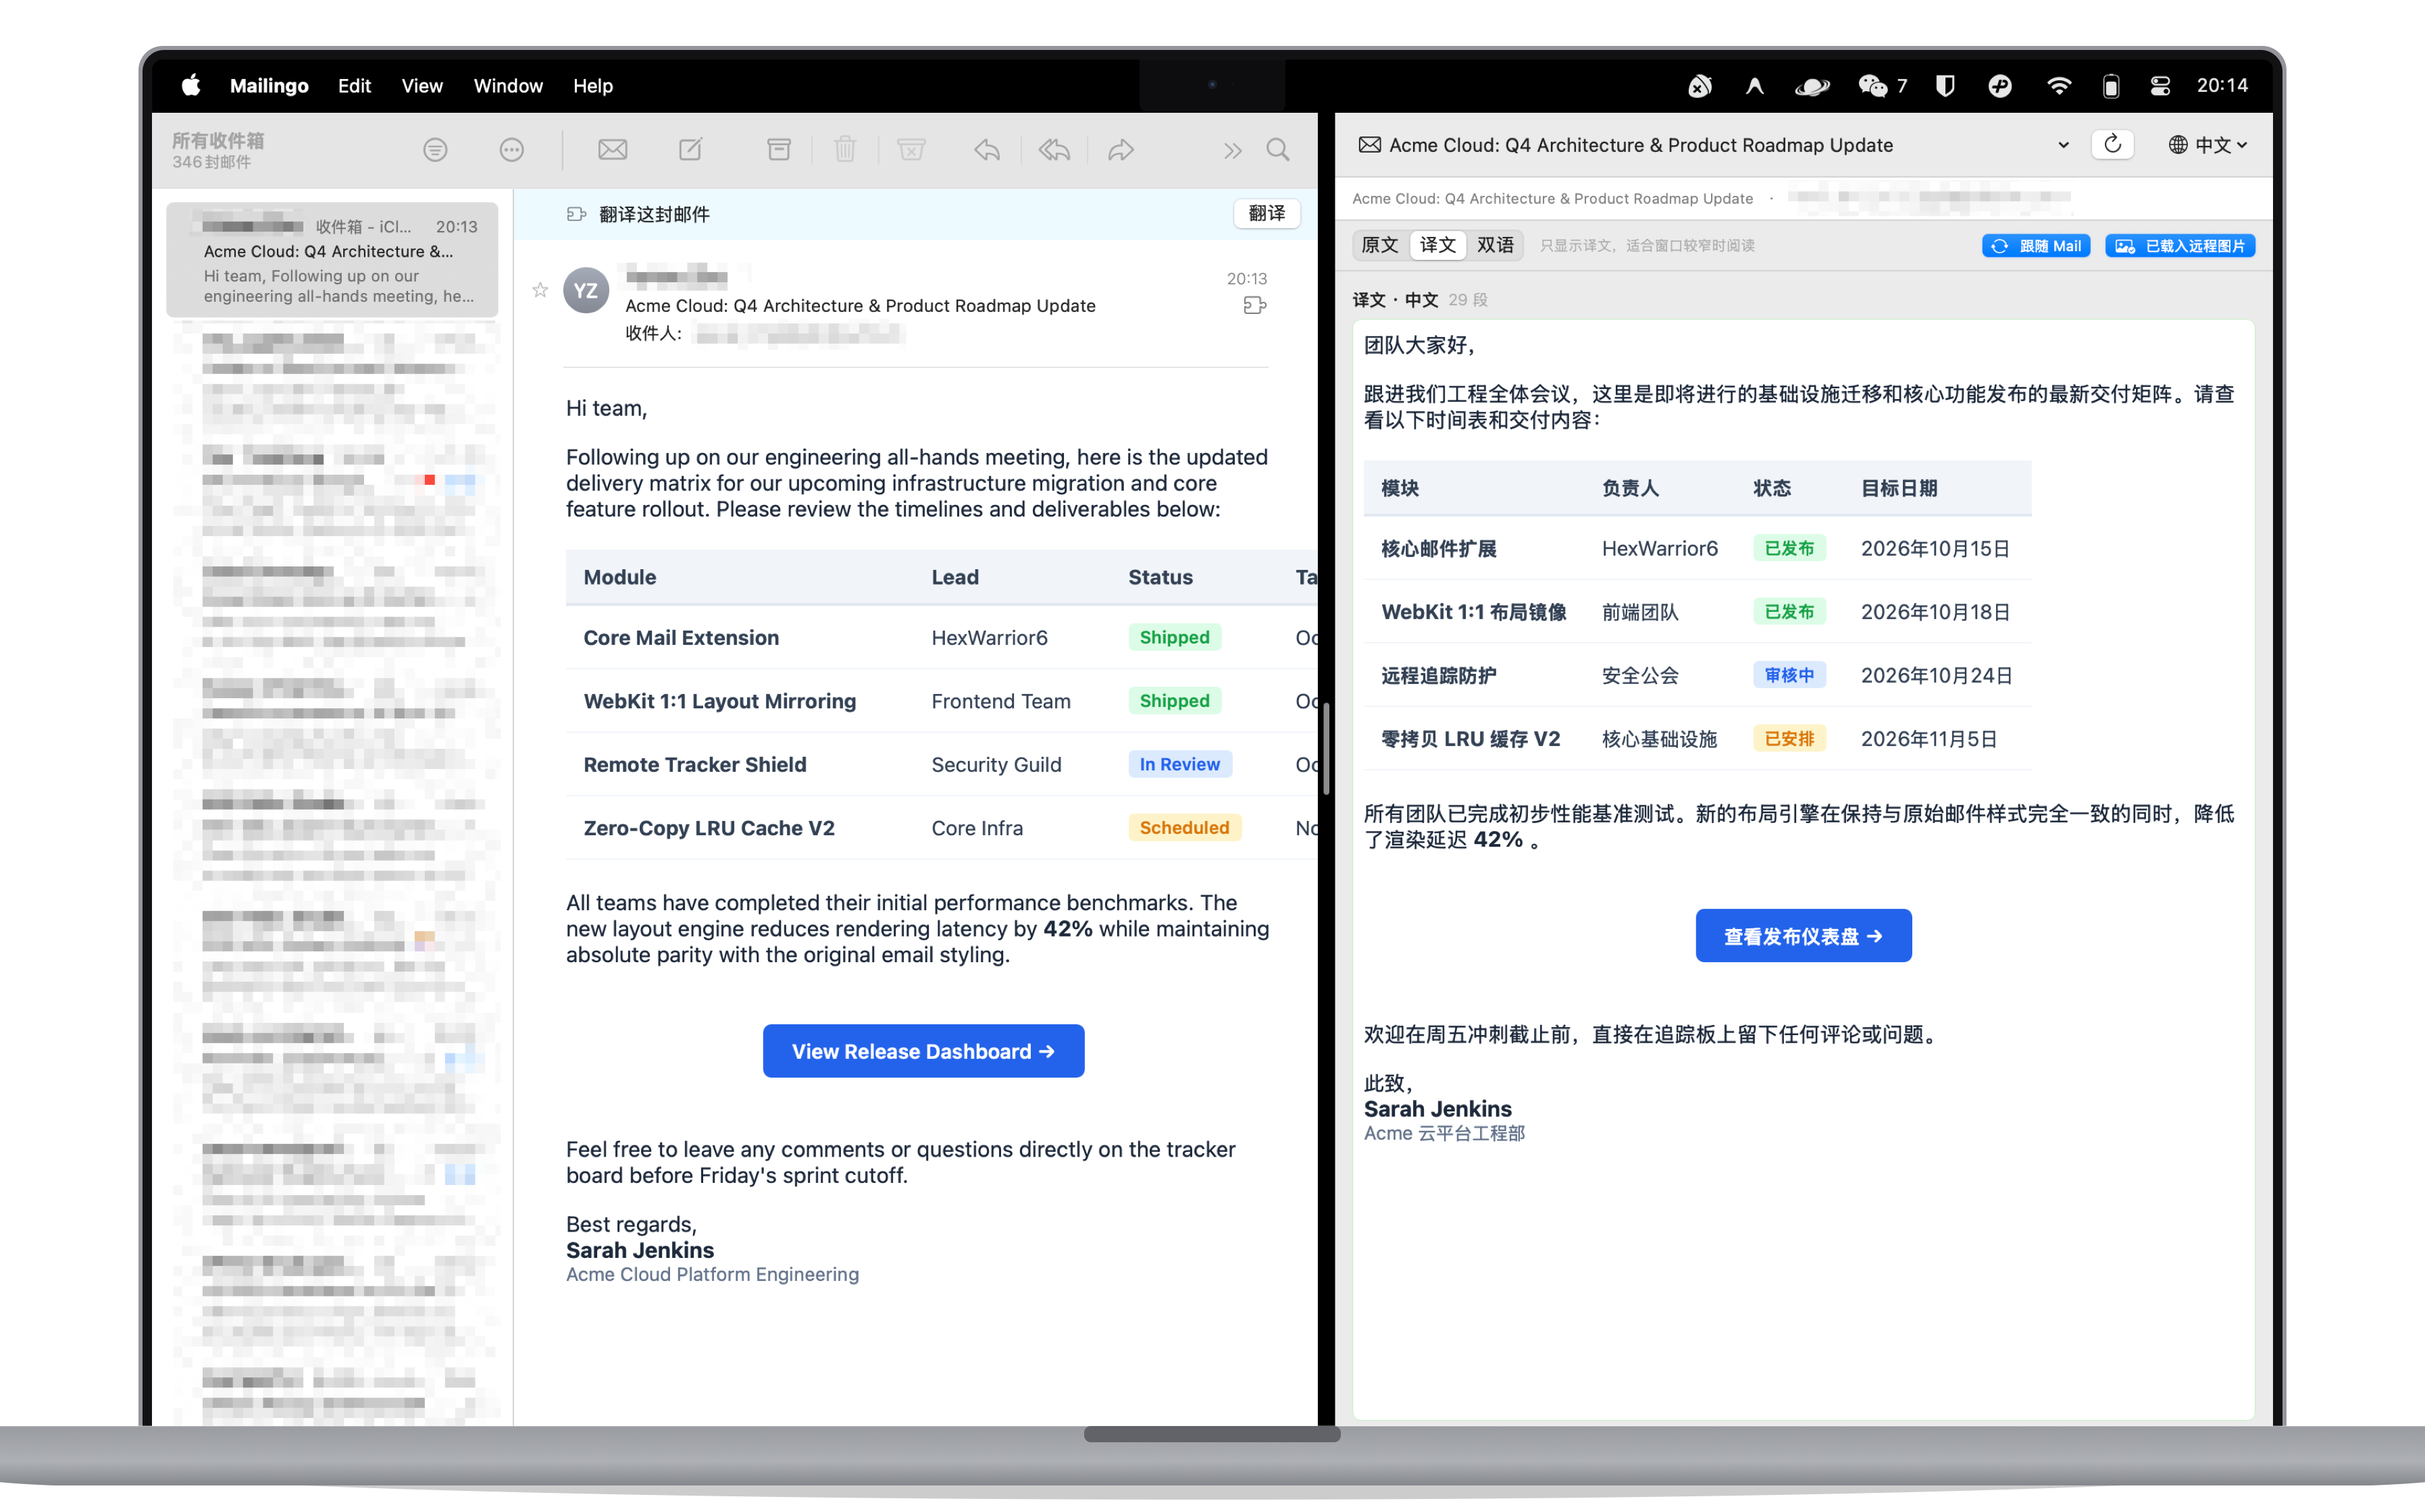
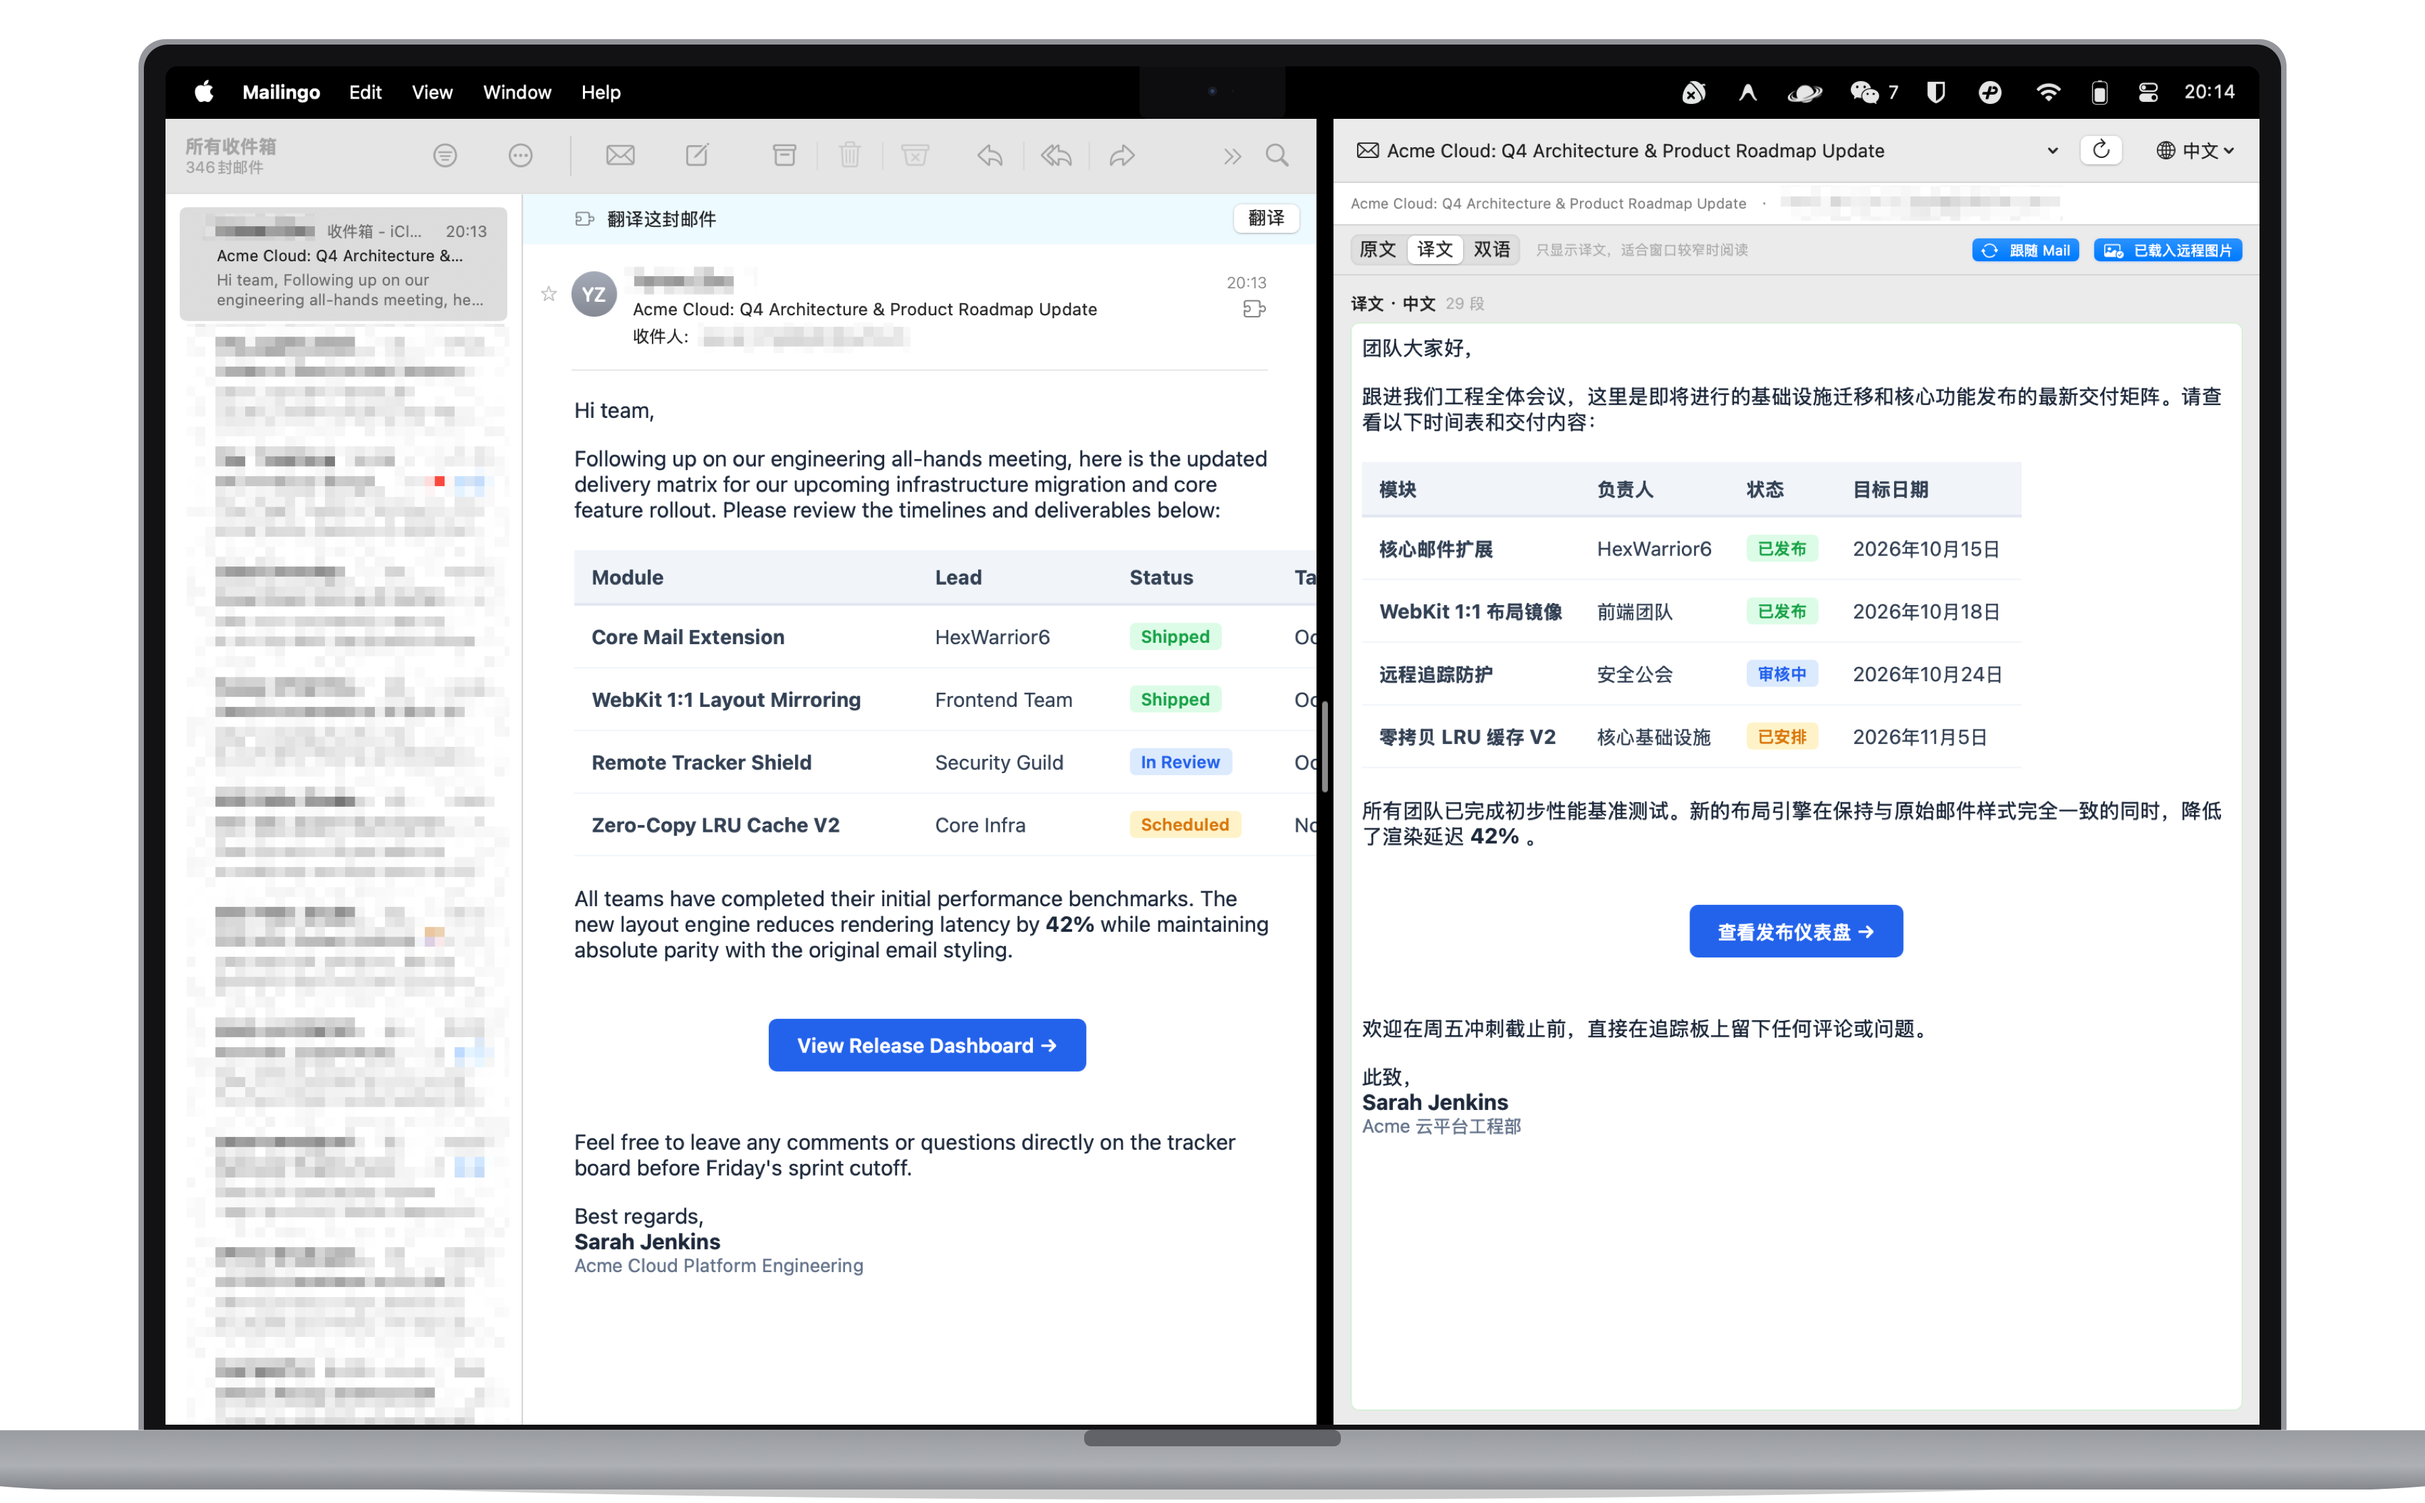
style(docs): thicken MacBook bezels for balanced mockup presence

diff --git a/Scripts/generate-mockup.swift b/Scripts/generate-mockup.swift
@@ -41,38 +41,38 @@ shadowPath.fill()
 let lidW: CGFloat = 3180
 let lidX: CGFloat = (totalW - lidW) / 2 // 365
 
-// 极窄等宽边框 (Top: 20px, Left: 20px, Right: 20px, Chin: 26px)
-let bezelSize: CGFloat = 20
-let chinSize: CGFloat = 26
+// 适度加粗边框 (Top: 40px, Left: 40px, Right: 40px, Chin: 48px，比例更稳重大气)
+let bezelSize: CGFloat = 40
+let chinSize: CGFloat = 48
 
-let screenW: CGFloat = lidW - (bezelSize * 2) // 3140
+let screenW: CGFloat = lidW - (bezelSize * 2) // 3100
 let srcSize = screenshotImage.size
-let scale = screenW / srcSize.width // 3140 / 2940 = 1.068027
-let screenH: CGFloat = round(srcSize.height * scale) // 2042
+let scale = screenW / srcSize.width // 3100 / 2940 = 1.05442
+let screenH: CGFloat = round(srcSize.height * scale) // 2016
 
-let lidH: CGFloat = screenH + bezelSize + chinSize // 2088
-let lidY: CGFloat = 80 // 距离底部底座的位置
+let lidH: CGFloat = screenH + bezelSize + chinSize // 2104
+let lidY: CGFloat = 74 // 距离底部底座的位置
 
 // 上盖外框 (深空灰铝合金)
 let lidOuterRect = CGRect(x: lidX, y: lidY, width: lidW, height: lidH)
-let lidOuterPath = NSBezierPath(roundedRect: lidOuterRect, xRadius: 36, yRadius: 36)
+let lidOuterPath = NSBezierPath(roundedRect: lidOuterRect, xRadius: 40, yRadius: 40)
 NSColor(red: 0.58, green: 0.59, blue: 0.61, alpha: 1.0).setFill() // 外壳铝合金银灰
 lidOuterPath.fill()
 
 // 屏幕外圈纯黑窄边框 (全面屏薄中框)
-let bezelRect = lidOuterRect.insetBy(dx: 6, dy: 6)
-let bezelPath = NSBezierPath(roundedRect: bezelRect, xRadius: 32, yRadius: 32)
+let bezelRect = lidOuterRect.insetBy(dx: 8, dy: 8)
+let bezelPath = NSBezierPath(roundedRect: bezelRect, xRadius: 36, yRadius: 36)
 NSColor(red: 0.07, green: 0.07, blue: 0.08, alpha: 1.0).setFill()
 bezelPath.fill()
 
 // 3. 屏幕显示区域 (Active Display Area)
-let screenX: CGFloat = lidX + bezelSize // 385
-let screenY: CGFloat = lidY + chinSize  // 106
+let screenX: CGFloat = lidX + bezelSize // 405
+let screenY: CGFloat = lidY + chinSize  // 122
 let screenRect = CGRect(x: screenX, y: screenY, width: screenW, height: screenH)
 
 // 现代 MacBook 屏幕顶部弧度 (Liquid Retina XDR 圆角)
 let screenClipPath = NSBezierPath()
-let screenRadius: CGFloat = 16
+let screenRadius: CGFloat = 18
 let left = screenRect.minX
 let right = screenRect.maxX
 let bottom = screenRect.minY
